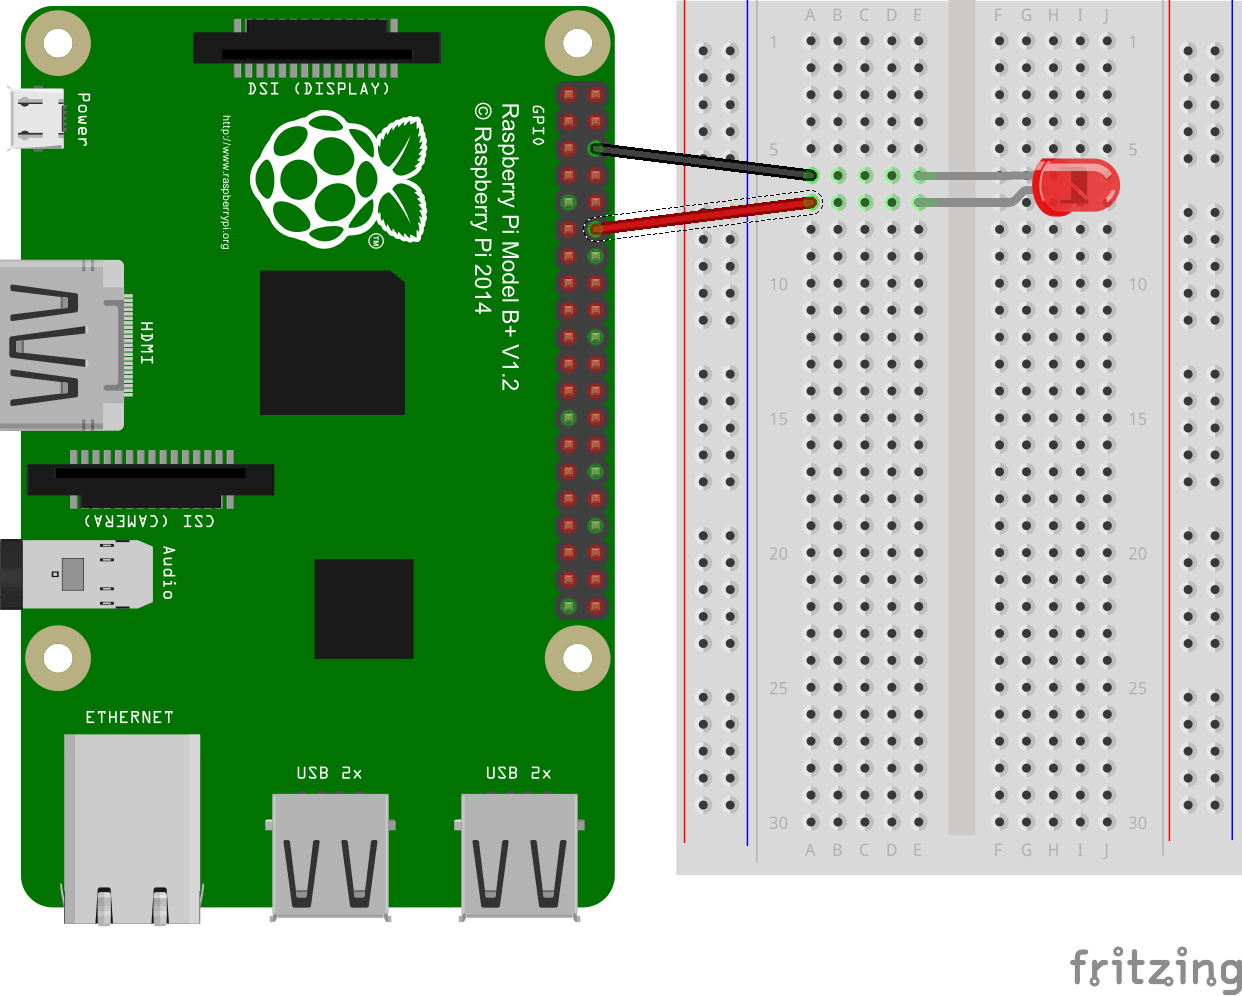
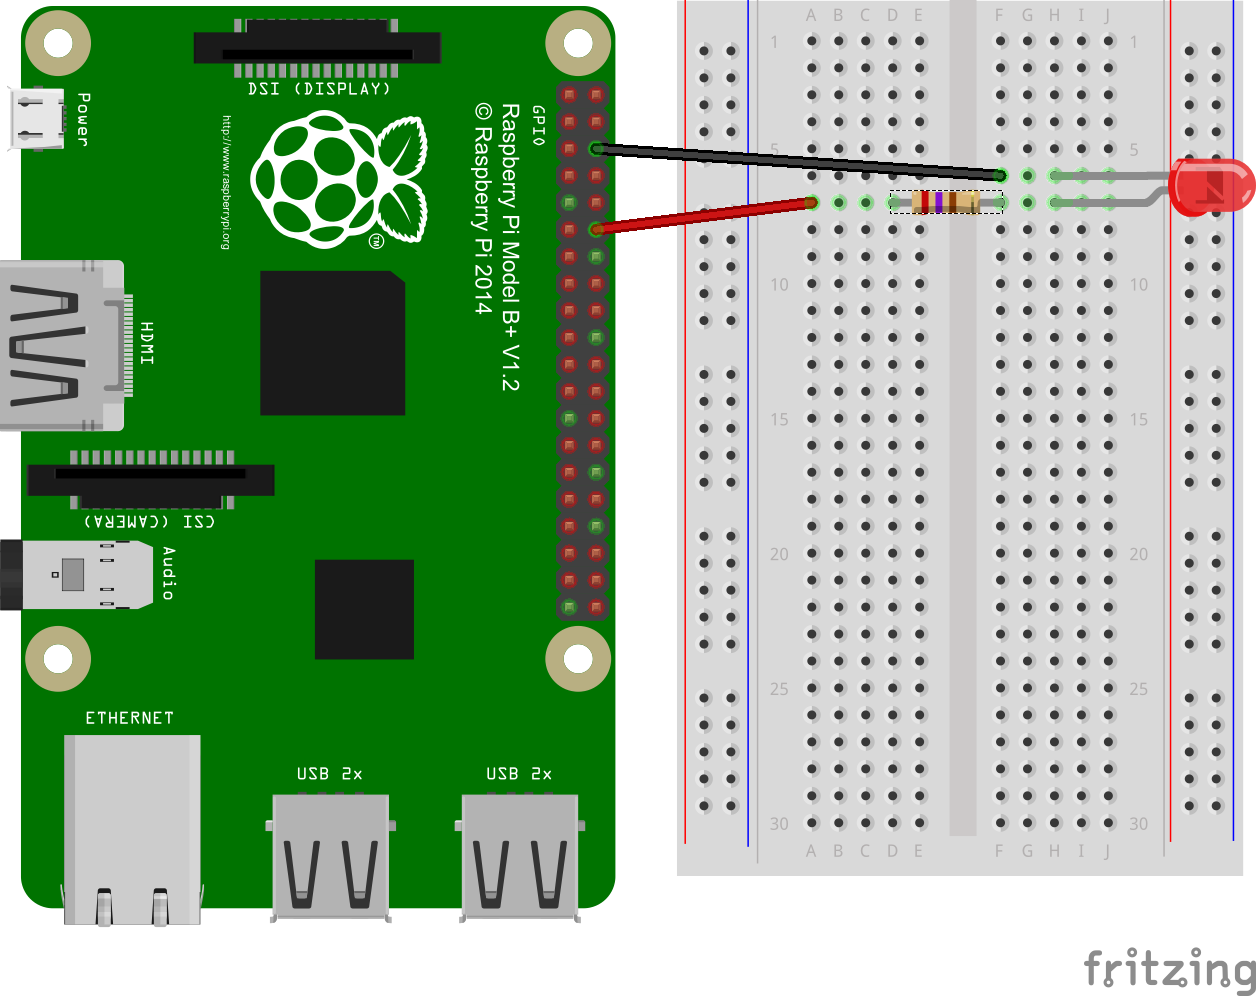
GPIO mode BOARD --> BCM
modified:   led/blink.png
modified:   led/switch.py

diff --git a/led/switch.py b/led/switch.py
@@ -3,10 +3,10 @@
 
 import RPi.GPIO as GPIO
 
-pinSW = 12
-pinLED = 16
+pinSW = 18
+pinLED = 23
 
-GPIO.setmode(GPIO.BOARD)
+GPIO.setmode(GPIO.BCM)
 GPIO.setup(pinSW, GPIO.IN, pull_up_down=GPIO.PUD_UP)
 GPIO.setup(pinLED, GPIO.OUT)
 
